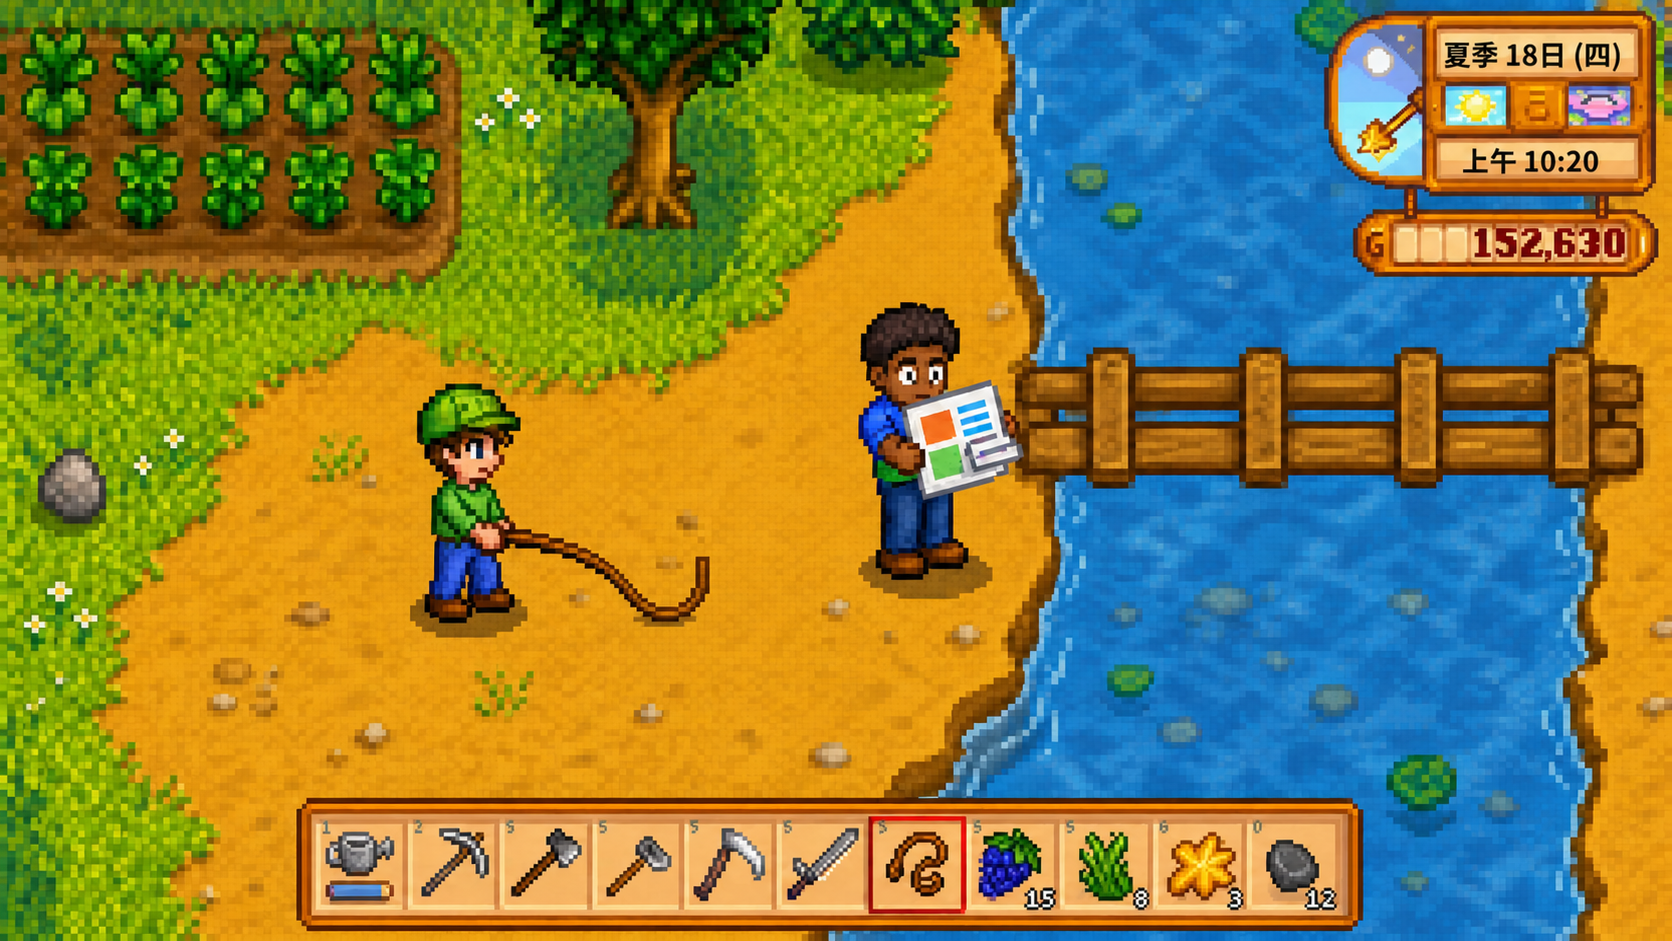
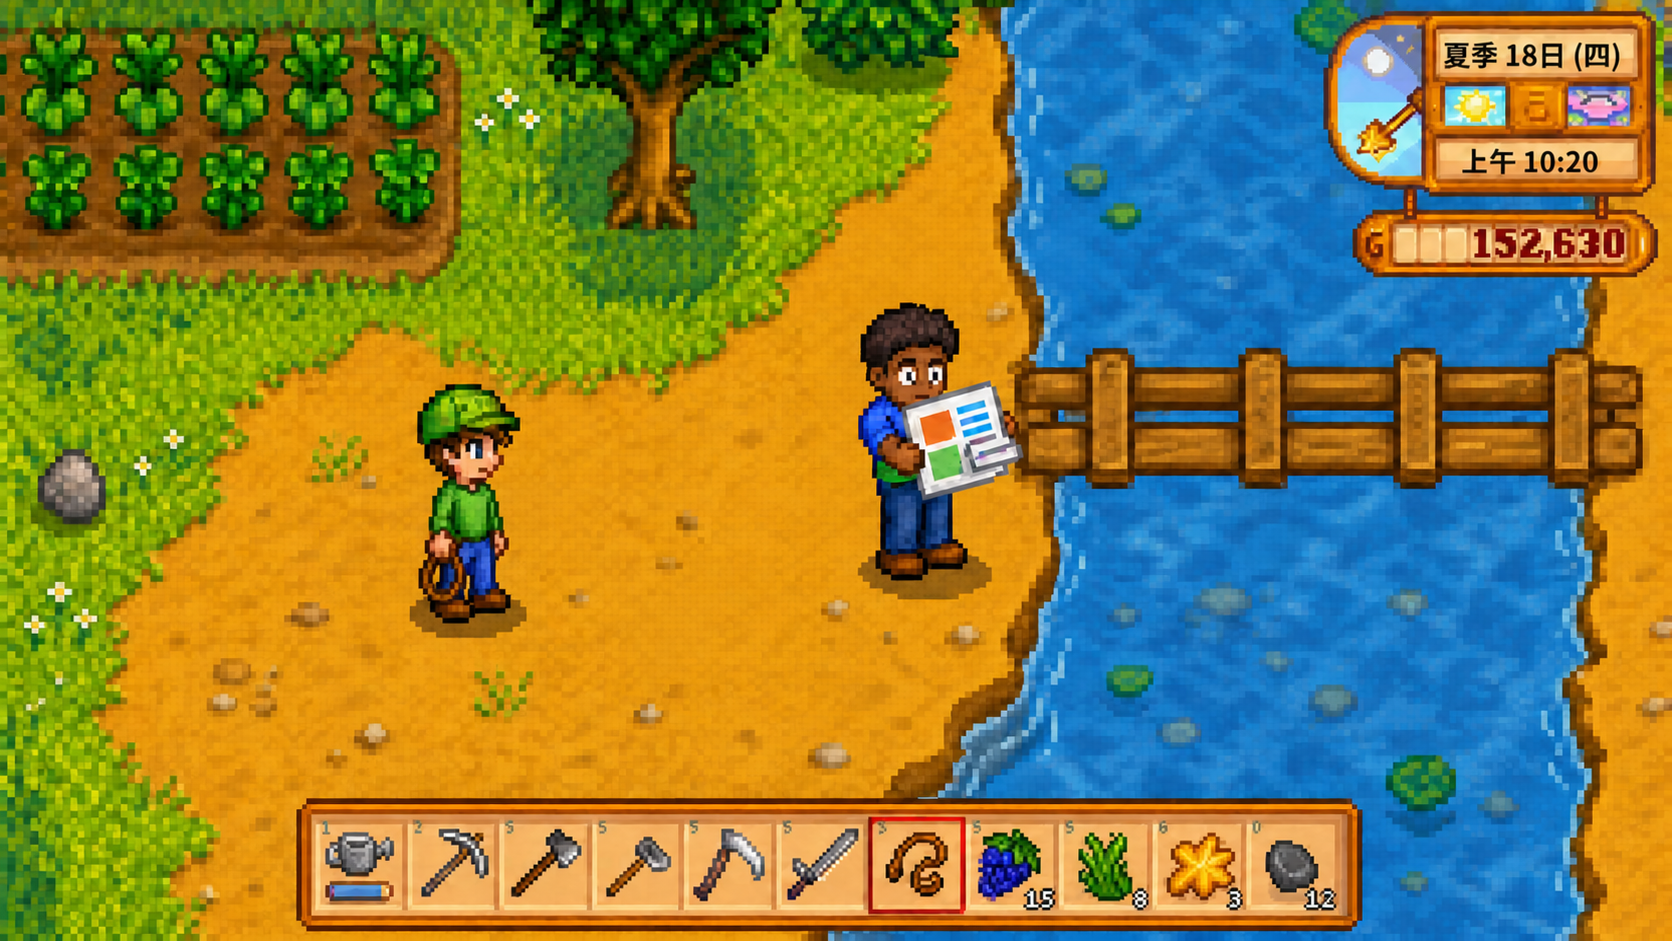
feat(site): sync whip interaction across hero

diff --git a/site/index.html b/site/index.html
@@ -52,15 +52,18 @@
           <a class="button button-primary" href="#how">看它怎么工作 <span aria-hidden="true">↓</span></a>
           <button class="button button-ghost" id="play-demo" type="button">演示语音 + 小皮鞭</button>
         </div>
-        <p class="hero-version">DSH AGH WORK ORCHESTRATOR · VERSION 0.1.5</p>
+        <p class="hero-version">DSH AGH WORK ORCHESTRATOR · VERSION 0.1.6</p>
       </div>
 
       <figure class="hero-visual reveal">
-        <div class="image-frame">
-          <img src="./assets/npc-work-hero.png" width="1675" height="942" alt="像素农场游戏中，玩家通过语音询问 PPT 进度，NPC 抱着文档回答马上就好">
+        <button class="image-frame" id="hero-whip-demo" type="button" aria-label="点击挥动小皮鞭，查看 AI NPC 的反应">
+          <img class="hero-frame hero-before" src="./assets/voice-whip-before.png" width="1675" height="942" alt="挥鞭前，左侧玩家手持盘起的小皮鞭，右侧 AI NPC 小汤圆平静地整理汇报">
+          <img class="hero-frame hero-after" src="./assets/npc-work-hero.png" width="1675" height="942" alt="左侧玩家挥动小皮鞭后，右侧 AI NPC 小汤圆惊讶地回答马上就好">
           <span class="live-pill"><i></i> 游戏内实时协作</span>
-          <span class="image-note">语音 + 小皮鞭，催 NPC 干活</span>
-        </div>
+          <span class="actor-label actor-player">玩家 →</span>
+          <span class="actor-label actor-npc">← AI NPC · 小汤圆</span>
+          <span class="image-note">点击小皮鞭，催 NPC 干活</span>
+        </button>
         <figcaption>产品概念演示画面 · 玩家不离开游戏，也能持续指挥工作</figcaption>
       </figure>
     </section>
@@ -148,6 +151,8 @@
           <img class="demo-frame demo-after" src="./assets/voice-whip-demo.png" width="1675" height="942" alt="玩家挥动小皮鞭催办后，NPC 惊讶地回答马上就好">
           <span class="stage-mode">实机交互 · 语音 + 小皮鞭</span>
           <span class="stage-session"><i></i> 小汤圆正在后台干活</span>
+          <span class="actor-label actor-player">玩家 →</span>
+          <span class="actor-label actor-npc">← AI NPC · 小汤圆</span>
           <span class="stage-action" id="whip-instruction"><b>点击挥动小皮鞭</b><small>抽一下，看看 NPC 的反应</small></span>
         </button>
         <div class="game-controls" aria-live="polite">

diff --git a/site/styles.css b/site/styles.css
@@ -254,10 +254,21 @@ h1 em, .final-cta h2 em {
 
 .image-frame {
   position: relative;
+  width: 100%;
   padding: 9px;
+  display: block;
+  appearance: none;
   background: var(--ink);
+  border: 0;
   box-shadow: var(--shadow);
+  color: inherit;
+  text-align: left;
+  cursor: pointer;
+  transition: transform .18s ease, box-shadow .18s ease;
 }
+
+.image-frame:hover { transform: translateY(-3px); box-shadow: 15px 17px 0 var(--ink); }
+.image-frame:focus-visible { outline: 3px solid var(--orange); outline-offset: 7px; }
 
 .image-frame::before,
 .image-frame::after {
@@ -272,7 +283,11 @@ h1 em, .final-cta h2 em {
 .image-frame::before { top: -8px; left: -8px; }
 .image-frame::after { right: -8px; bottom: -8px; }
 
-.image-frame img { width: 100%; height: auto; aspect-ratio: 16 / 9; object-fit: cover; image-rendering: pixelated; }
+.hero-frame { width: 100%; height: auto; display: block; aspect-ratio: 16 / 9; object-fit: cover; image-rendering: pixelated; transition: opacity .16s ease; }
+.hero-after { position: absolute; top: 9px; left: 9px; width: calc(100% - 18px); opacity: 0; }
+.hero-visual.is-whipped .hero-before { opacity: 0; }
+.hero-visual.is-whipped .hero-after { opacity: 1; }
+.hero-visual.is-whipped .image-frame { animation: stage-nudge .42s ease 2; }
 
 .live-pill, .image-note {
   position: absolute;
@@ -301,6 +316,23 @@ h1 em, .final-cta h2 em {
   background: var(--lime);
   transform: rotate(-2deg);
 }
+
+.actor-label {
+  position: absolute;
+  z-index: 4;
+  top: 49%;
+  padding: 7px 9px;
+  background: var(--ink);
+  color: var(--paper);
+  border: 1px solid var(--lime);
+  font-size: 10px;
+  font-weight: 950;
+  box-shadow: 3px 3px 0 var(--lime);
+  pointer-events: none;
+}
+
+.actor-player { left: 18px; }
+.actor-npc { right: 18px; }
 
 .hero-visual figcaption { margin-top: 16px; color: var(--muted); font-size: 11px; text-align: right; }
 
@@ -618,6 +650,9 @@ footer span, footer p { margin: 0; font: 10px Consolas, monospace; letter-spacin
   .vote-ticket strong, .vote-ticket b { font-size: 25px; }
   .image-note { right: 12px; bottom: 12px; }
   .live-pill { top: 12px; left: 12px; }
+  .actor-label { top: 48%; padding: 5px 6px; font-size: 8px; }
+  .actor-player { left: 12px; }
+  .actor-npc { right: 12px; }
   .section { padding: 84px 20px; }
   .manifesto-grid, .not-grid, .section-heading { grid-template-columns: 1fr; gap: 42px; }
   .flow { grid-template-columns: 1fr; }

diff --git a/site/script.js b/site/script.js
@@ -36,9 +36,12 @@ nav.querySelectorAll('a').forEach(link => link.addEventListener('click', () => {
 
 const demoButton = document.querySelector('#play-demo')
 const whipDemo = document.querySelector('#whip-demo')
+const heroWhipDemo = document.querySelector('#hero-whip-demo')
 const demoSignals = [...document.querySelectorAll('.demo-signal')]
 const flowCards = [...document.querySelectorAll('.flow-card')]
 const gameStage = document.querySelector('.game-stage')
+const heroVisual = document.querySelector('.hero-visual')
+const heroAction = document.querySelector('.image-note')
 const actionTitle = document.querySelector('.stage-action b')
 const actionHint = document.querySelector('.stage-action small')
 let demoTimer
@@ -50,16 +53,20 @@ const clearDemo = () => {
   demoSignals.forEach(signal => signal.classList.remove('active'))
   flowCards.forEach(card => card.classList.remove('is-active'))
   gameStage?.classList.remove('is-whipped')
+  heroVisual?.classList.remove('is-whipped')
   demoButton.textContent = '演示语音 + 小皮鞭'
+  heroAction.textContent = '点击小皮鞭，催 NPC 干活'
   actionTitle.textContent = '点击挥动小皮鞭'
   actionHint.textContent = '抽一下，看看 NPC 的反应'
 }
 
-const runDemo = () => {
+const runDemo = ({ scroll = true } = {}) => {
   clearDemo()
-  document.querySelector('#demo').scrollIntoView({ behavior: reducedMotion ? 'auto' : 'smooth', block: 'center' })
+  if (scroll) document.querySelector('#demo').scrollIntoView({ behavior: reducedMotion ? 'auto' : 'smooth', block: 'center' })
   demoButton.textContent = 'NPC 被催办中…'
   gameStage?.classList.add('is-whipped')
+  heroVisual?.classList.add('is-whipped')
+  heroAction.textContent = '啪！AI NPC：马上就好了！'
   demoSignals[1]?.classList.add('active')
   flowCards[1]?.classList.add('is-active')
   actionTitle.textContent = '啪！NPC：马上就好了！'
@@ -75,5 +82,6 @@ const runDemo = () => {
   demoTimer = window.setTimeout(clearDemo, 5000)
 }
 
-demoButton.addEventListener('click', runDemo)
-whipDemo.addEventListener('click', runDemo)
+demoButton.addEventListener('click', () => runDemo({ scroll: true }))
+whipDemo.addEventListener('click', () => runDemo({ scroll: false }))
+heroWhipDemo.addEventListener('click', () => runDemo({ scroll: false }))

diff --git a/README.md b/README.md
@@ -6,7 +6,7 @@
 
 本项目不建立任务中心，不创建 WorkTask 数据库，也不维护第二套任务状态机。工作事实、对话记录和成果仍由 DSH Session 与其 Workspace 保存。
 
-当前版本：`0.1.5`。本仓库发布的是 Git 源码版本；尚未声明已经发布到 npm。
+当前版本：`0.1.6`。本仓库发布的是 Git 源码版本；尚未声明已经发布到 npm。
 
 ## 产品宣传页
 
@@ -19,7 +19,7 @@
 
 核心交互是**游戏内语音 + 小皮鞭动作**，不是打字聊天框：玩家按住说话交代任务，用小皮鞭催办，NPC 通过语音和头顶气泡回应。
 
-宣传页默认展示挥鞭前的平静画面；点击游戏画面或“演示语音 + 小皮鞭”后，切换为 NPC 惊讶回应画面，5 秒后自动恢复，适合现场反复演示。
+宣传页默认展示鞭子盘在玩家手中、尚未出手的平静画面；点击首页大图、下方游戏画面或“演示语音 + 小皮鞭”后，切换为 NPC 惊讶回应画面，5 秒后自动恢复，适合现场反复演示。画面标签明确标出左侧玩家与右侧 AI NPC 小汤圆。
 
 同一通用编排层可以通过游戏 Adapter 服务星露谷物语、缺氧、饥荒联机版等不同游戏。Worker Session 会优先使用 DSH 中已经安装并启用的生产力工具；DSH 官方提供 Claude Code 与 Codex subagent Provider，外部产品仍需在部署环境中单独安装和认证。
 

diff --git a/site/README.md b/site/README.md
@@ -6,7 +6,7 @@
 
 产品生态区展示 DSH 作为工作底座、Claude Code/Codex 官方 Provider 的可配置接入，以及面向星露谷物语、缺氧、饥荒联机版的多游戏 Adapter 结构。外部生产力工具必须实际安装并启用；新增游戏也必须实现自己的 Adapter。
 
-小皮鞭演示默认使用 `assets/voice-whip-before.png`；点击游戏画面后切到 `assets/voice-whip-demo.png`，5 秒后复位。腾讯办公工具使用正式名称 `WorkBuddy`，当前状态仍是待接入。
+小皮鞭演示默认使用 `assets/voice-whip-before.png`，鞭子完整盘在玩家手中；点击首页大图或下方游戏画面后切到 `assets/voice-whip-demo.png`，5 秒后复位。两处画面都标注左侧玩家与右侧 AI NPC 小汤圆。腾讯办公工具使用正式名称 `WorkBuddy`，当前状态仍是待接入。
 
 直接双击 `index.html` 即可浏览；也可以在仓库根目录启动本地服务器：
 

diff --git a/CHANGELOG.md b/CHANGELOG.md
@@ -1,5 +1,11 @@
 # Changelog
 
+## 0.1.6 - 2026-08-29
+
+- 将默认画面的鞭子改成完整盘在玩家手中，明确表现“尚未挥出”。
+- 首页大图接入与下方演示区相同的点击切图和 5 秒自动复位效果。
+- 在两处演示画面标注左侧玩家与右侧 AI NPC 小汤圆。
+
 ## 0.1.5 - 2026-08-29
 
 - 删除“不是空想，底座已经存在”整段展示，缩短宣传页叙事。
